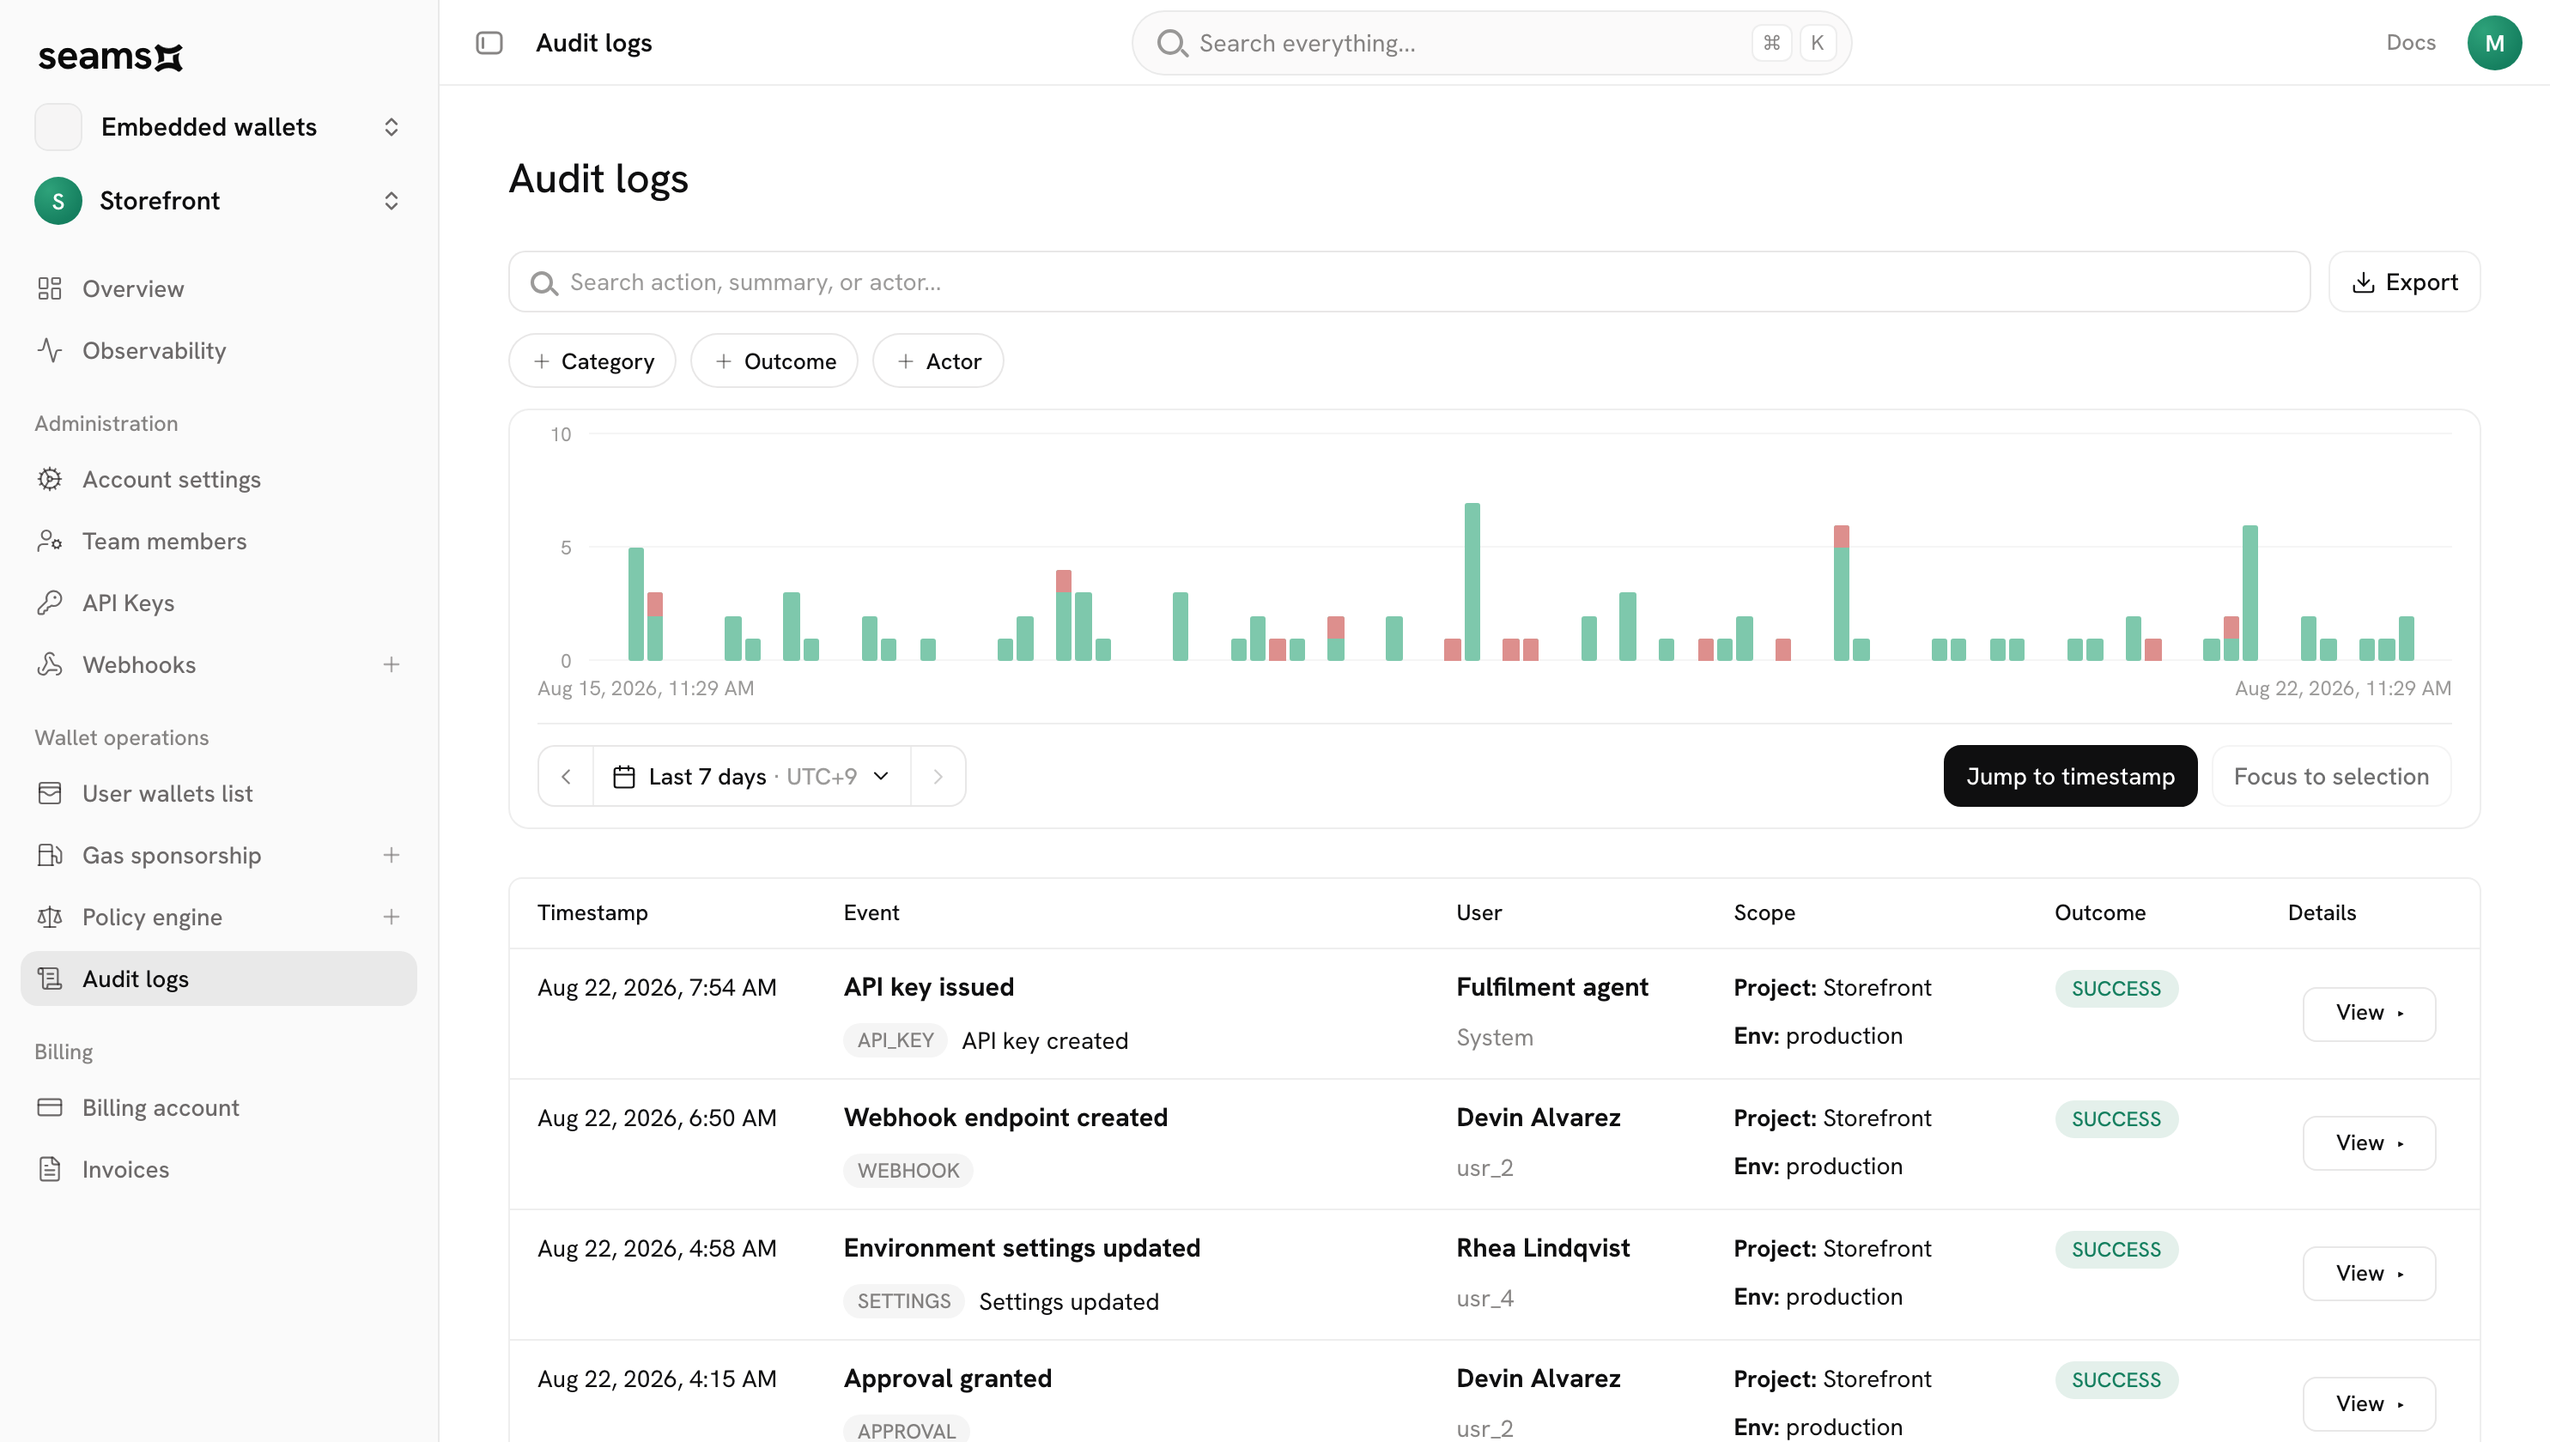
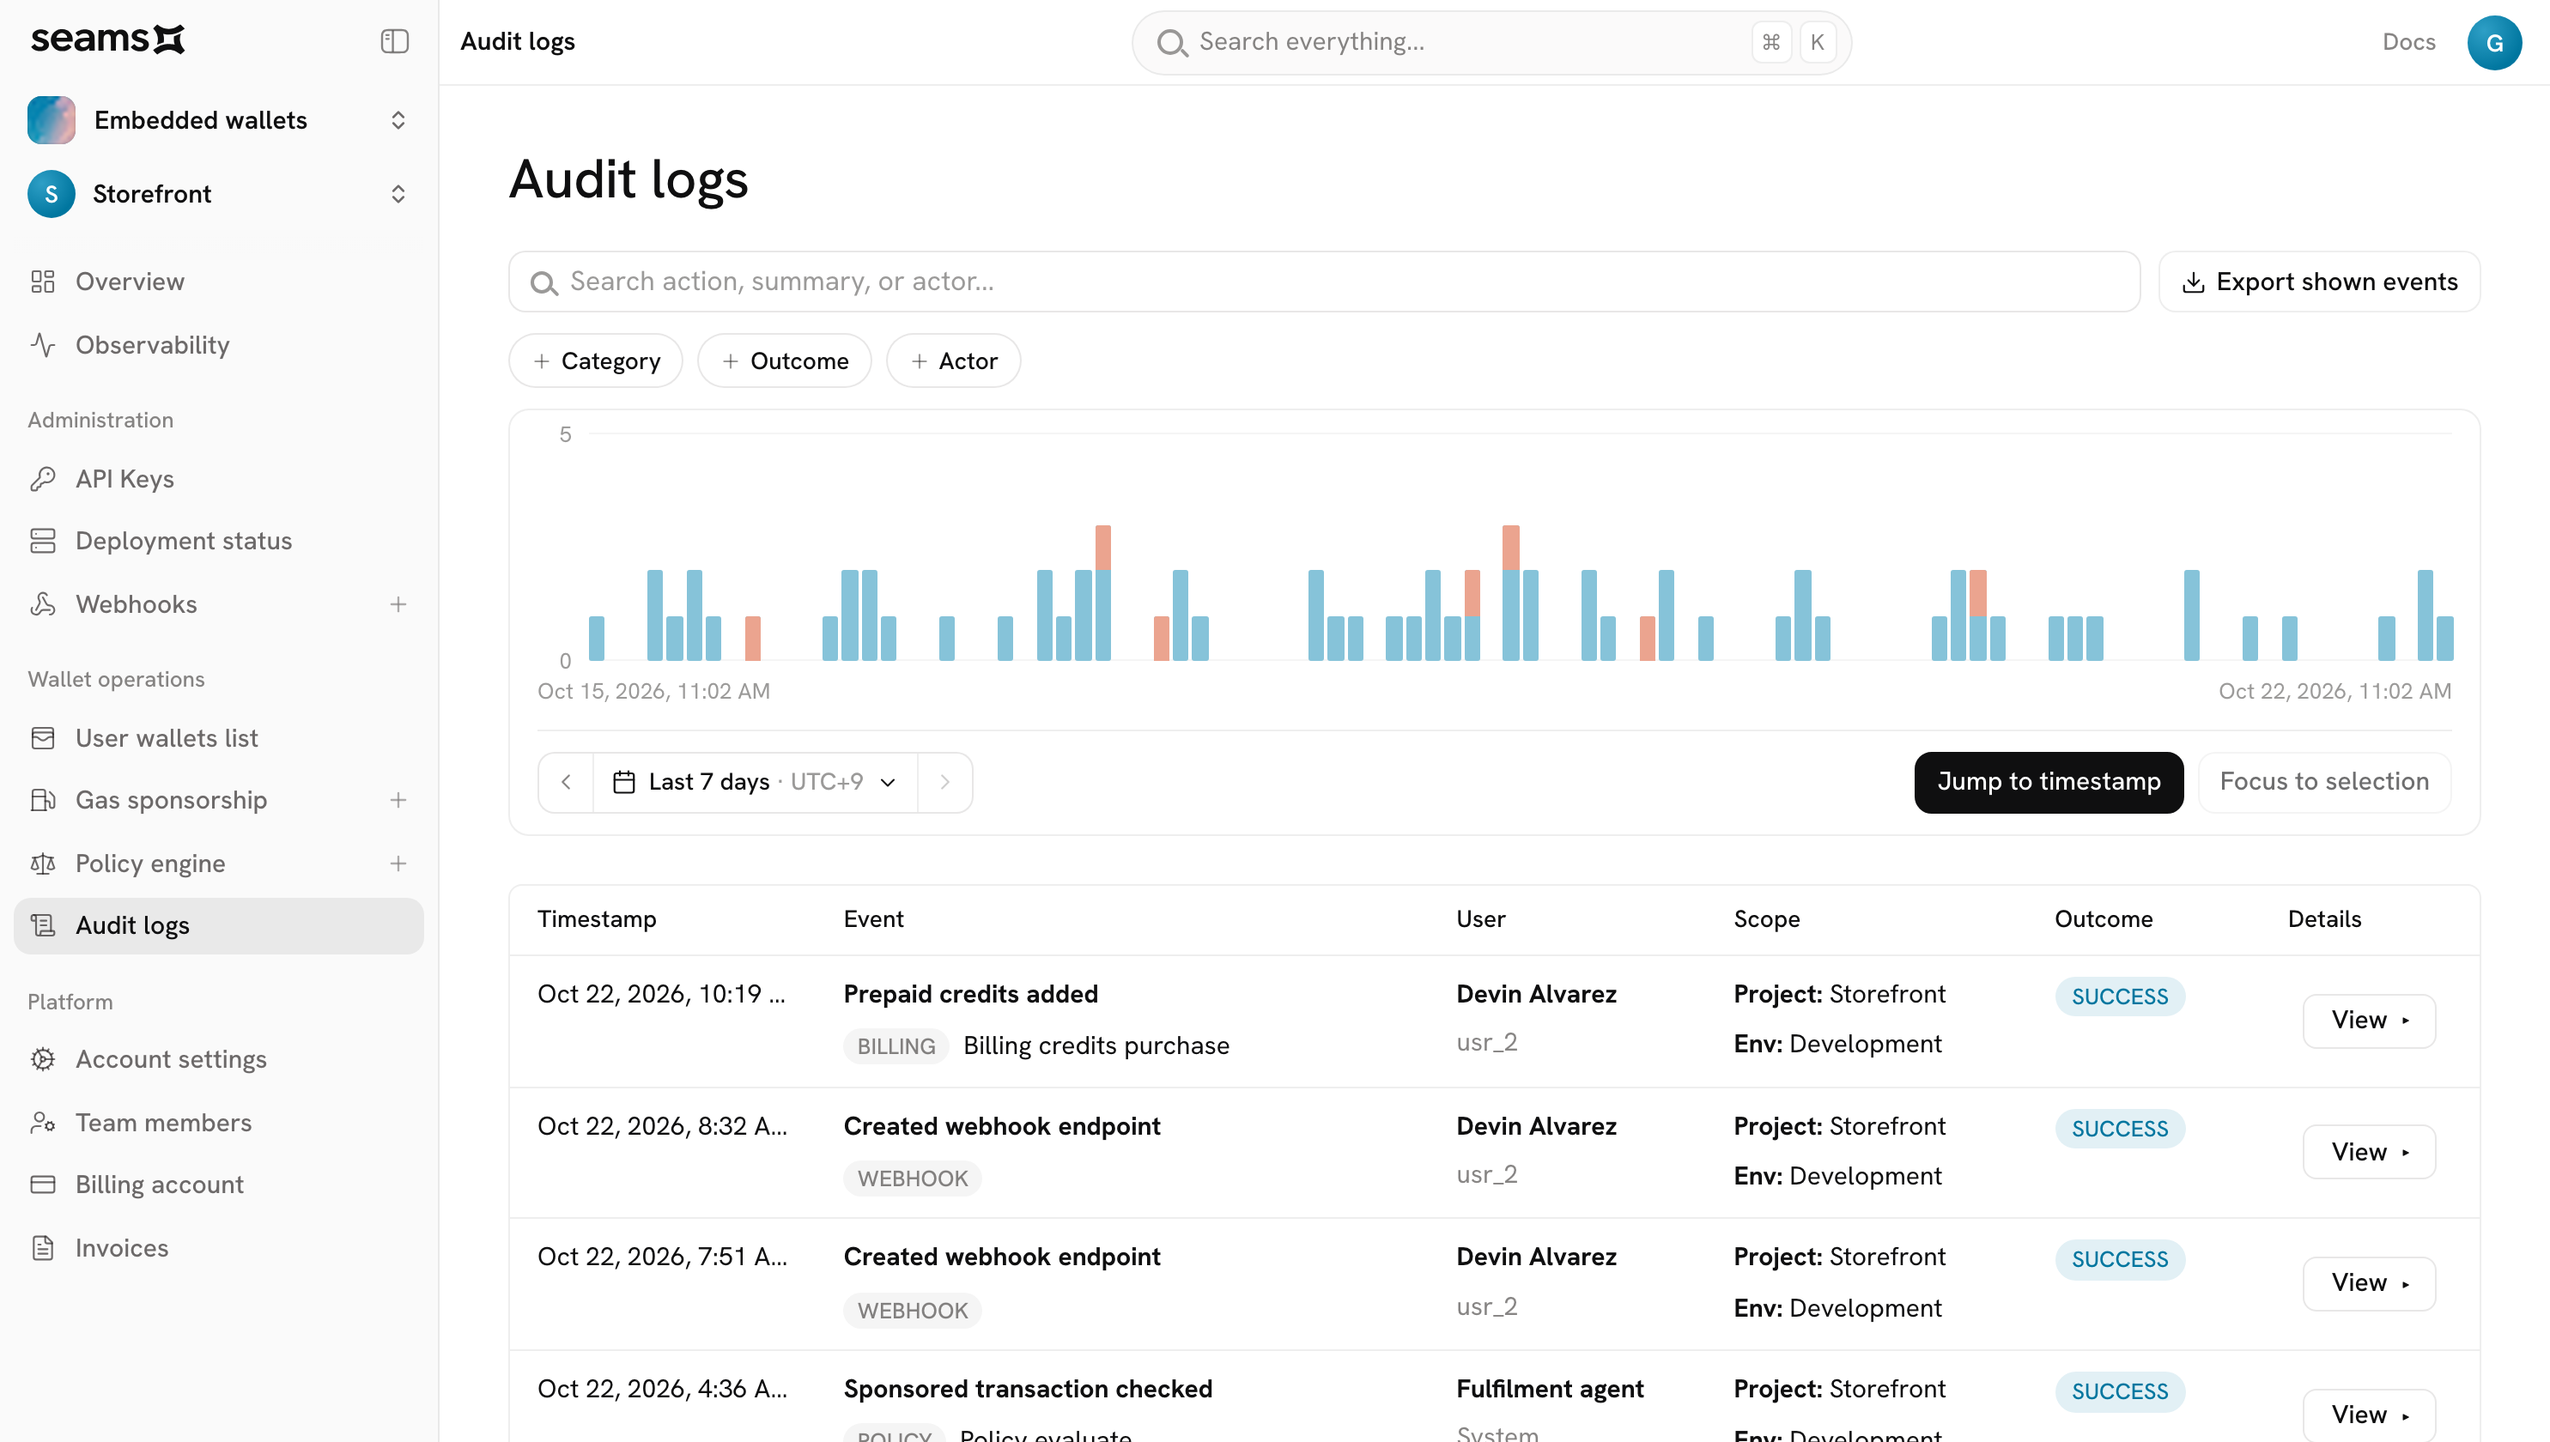
feat(console): teal-peach accents and new dashboard screenshots
Replace the Console's green accent with the teal-peach family from the
site theme: teal accent and success, peach failure bars, teal-peach
grain fields. Overview action icons become white glyphs on gradient
rounded-square tiles, and the credits banner shows more of its field.
Recapture the overview and audit screenshots for the wallet page.

diff --git a/apps/wallet-console/src/core/dashboard/styles.css b/apps/wallet-console/src/core/dashboard/styles.css
@@ -59,11 +59,14 @@
     0 0 0 1px rgba(0, 0, 0, 0.06), 0 1px 1px -0.5px rgba(0, 0, 0, 0.06),
     0 3px 3px -1.5px rgba(0, 0, 0, 0.06), 0 6px 6px -3px rgba(0, 0, 0, 0.06),
     0 12px 12px -6px rgba(0, 0, 0, 0.04), 0 24px 24px -12px rgba(0, 0, 0, 0.04);
-  /* Accent + status, mirrored from the frontpage chips. Green is a product
-     accent (never plain chrome); status softs match .h2-chip. */
-  --dashboard-accent: #157f5f;
-  --dashboard-success: #157f5f;
-  --dashboard-success-soft: #e4f0eb;
+  /* Accent + status, from the teal-peach field. Teal is the product accent
+     and the success hue (never plain chrome); peach is its partner wash. */
+  --dashboard-accent: #00769f;
+  --dashboard-accent-highlight: #2e9fc6;
+  --dashboard-success: #00769f;
+  --dashboard-success-soft: #e2f0f5;
+  --dashboard-peach: #b0614c;
+  --dashboard-peach-soft: #fbece6;
   --dashboard-warning: #b45309;
   --dashboard-warning-soft: #f7ecdd;
   --dashboard-danger: #b91c1c;
@@ -71,8 +74,8 @@
   /* Pastel pair for chart marks. The `-soft` tints above are page-fill pale
      and vanish as a bar; these sit between them and the full-strength hues,
      so a plot reads as quiet fill rather than as a row of status badges. */
-  --dashboard-accent-pastel: #7ec8ac;
-  --dashboard-danger-pastel: #dd8f8d;
+  --dashboard-accent-pastel: #86c3d9;
+  --dashboard-danger-pastel: #eba48f;
   --dashboard-sidebar-width: 256px;
   --dashboard-topbar-height: 50px;
   --dashboard-motion-sidebar: 150ms;
@@ -348,7 +351,7 @@ textarea {
   display: inline-grid;
   place-items: center;
   border-radius: 9999px;
-  background: radial-gradient(circle at 30% 28%, #2ea27a, var(--dashboard-accent) 72%);
+  background: radial-gradient(circle at 30% 28%, var(--dashboard-accent-highlight), var(--dashboard-accent) 72%);
   color: #ffffff;
   font-size: var(--dashboard-text-supporting);
   font-weight: 600;
@@ -1282,7 +1285,7 @@ textarea {
   display: inline-grid;
   place-items: center;
   border-radius: 9999px;
-  background: radial-gradient(circle at 30% 28%, #2ea27a, var(--dashboard-accent) 72%);
+  background: radial-gradient(circle at 30% 28%, var(--dashboard-accent-highlight), var(--dashboard-accent) 72%);
   color: #ffffff;
   font-size: var(--dashboard-text-supporting);
   font-weight: 600;
@@ -1498,7 +1501,7 @@ textarea {
   display: inline-grid;
   place-items: center;
   border-radius: 9999px;
-  background: radial-gradient(circle at 30% 28%, #2ea27a, var(--dashboard-accent) 72%);
+  background: radial-gradient(circle at 30% 28%, var(--dashboard-accent-highlight), var(--dashboard-accent) 72%);
   color: #ffffff;
   font-size: var(--dashboard-text-compact);
   font-weight: 600;
@@ -4424,34 +4427,33 @@ textarea {
 }
 
 .dashboard-hero__card-icon {
-  width: 34px;
-  height: 34px;
+  width: 36px;
+  height: 36px;
   display: inline-grid;
   place-items: center;
-  border-radius: 9999px;
-  border: 1px solid var(--dashboard-border);
-  background: var(--dashboard-surface-soft);
-  color: var(--dashboard-graphite);
+  border-radius: 10px;
+  /* top-edge sheen and a short drop, so the tile reads as a lit object */
+  box-shadow:
+    inset 0 1px 0 rgba(255, 255, 255, 0.28),
+    inset 0 0 0 1px rgba(0, 0, 0, 0.06),
+    0 1px 2px rgba(15, 15, 16, 0.12);
+  background: var(--dashboard-ink);
+  color: #ffffff;
   margin-bottom: 4px;
 }
 
-/* Soft per-action washes: color lives in content chips, never in chrome */
-.dashboard-hero__card-icon--green {
-  border-color: color-mix(in srgb, var(--dashboard-success) 22%, var(--dashboard-border));
-  background: var(--dashboard-success-soft);
-  color: var(--dashboard-success);
+/* One gradient per action, each from the teal-peach family. The darker end
+   sits under the glyph's lower half, so the white icon keeps 3:1. */
+.dashboard-hero__card-icon--teal {
+  background: linear-gradient(135deg, #36a9cc 0%, #00668c 100%);
 }
 
-.dashboard-hero__card-icon--amber {
-  border-color: color-mix(in srgb, var(--dashboard-warning) 22%, var(--dashboard-border));
-  background: var(--dashboard-warning-soft);
-  color: var(--dashboard-warning);
+.dashboard-hero__card-icon--peach {
+  background: linear-gradient(135deg, #ec9a7c 0%, #b9573e 100%);
 }
 
 .dashboard-hero__card-icon--blue {
-  border-color: color-mix(in srgb, #4a6fa5 24%, var(--dashboard-border));
-  background: #edf3fa;
-  color: #4a6fa5;
+  background: linear-gradient(135deg, #8d98e0 0%, #4b5bb0 100%);
 }
 
 /* Promo band: the one colorful surface per page, using the Seams v9 brand
@@ -4484,9 +4486,9 @@ textarea {
   border-radius: inherit;
   background: linear-gradient(
     90deg,
-    rgba(255, 255, 255, 0.94) 0%,
-    rgba(255, 255, 255, 0.82) 46%,
-    rgba(255, 255, 255, 0.2) 100%
+    rgba(255, 255, 255, 0.86) 0%,
+    rgba(255, 255, 255, 0.5) 42%,
+    rgba(255, 255, 255, 0) 78%
   );
   pointer-events: none;
 }
@@ -4519,7 +4521,8 @@ textarea {
 
 .dashboard-hero__promo-description {
   font-size: var(--dashboard-text-compact);
-  color: var(--dashboard-graphite);
+  /* darker than graphite: the teal-peach field shows through behind it */
+  color: color-mix(in srgb, var(--dashboard-ink) 74%, transparent);
 }
 
 .dashboard-hero__status-grid {
@@ -8515,11 +8518,10 @@ select.dashboard-input {
   .dashboard-hero__card-icon {
     grid-column: 1;
     grid-row: 1 / 3;
-    border: 0;
-    background: transparent;
-    color: inherit;
     margin: 0;
     width: 28px;
+    height: 28px;
+    border-radius: 8px;
   }
   .dashboard-hero__card-title {
     grid-column: 2;

diff --git a/apps/wallet-console/src/core/dashboard/routes/ops-cockpit/page.tsx b/apps/wallet-console/src/core/dashboard/routes/ops-cockpit/page.tsx
@@ -67,7 +67,7 @@ const CORE_OVERVIEW_HERO_ACTIONS: readonly OpsCockpitQuickAction[] = [
     description: 'Manage credentials for this environment.',
     path: '/dashboard/api-keys',
     icon: KeyRoundIcon,
-    tone: 'amber',
+    tone: 'peach',
   },
 ] as const;
 
@@ -76,7 +76,7 @@ export type OpsCockpitQuickAction = {
   description: string;
   path: string;
   icon: SidebarIconComponent;
-  tone: 'amber' | 'green' | 'blue';
+  tone: 'peach' | 'teal' | 'blue';
 };
 
 export type OpsCockpitApprovalActions = {
@@ -329,7 +329,7 @@ export function OpsCockpitPage({
             href={linkProps('/dashboard/billing/account').href}
             onClick={linkProps('/dashboard/billing/account').onClick}
           >
-            <GrainField field="aqua-evergreen" />
+            <GrainField field="teal-peach" />
             <span className="dashboard-hero__promo-copy">
               <span className="dashboard-hero__promo-title">Credits</span>
               <span className="dashboard-hero__promo-description">{creditsDescription}</span>

diff --git a/apps/wallet-console/src/app/dashboardConfig.tsx b/apps/wallet-console/src/app/dashboardConfig.tsx
@@ -72,7 +72,7 @@ export const DASHBOARD_PRODUCTS: DashboardProduct[] = [
     id: 'embedded-wallets',
     name: 'Embedded wallets',
     description: 'Passkey wallets, policies & gas',
-    gradient: 'aqua-evergreen',
+    gradient: 'teal-peach',
     available: true,
   },
 ];
@@ -222,7 +222,7 @@ const walletOpsCockpitQuickActions: readonly OpsCockpitQuickAction[] = [
     description: 'Set signing rules and spend caps for your wallets.',
     path: '/dashboard/policy-engine',
     icon: ScaleIcon,
-    tone: 'green',
+    tone: 'teal',
   },
   {
     title: 'Gas sponsorship',

diff --git a/apps/seams-site/src/components/h2/sections.tsx b/apps/seams-site/src/components/h2/sections.tsx
@@ -1261,13 +1261,13 @@ const CONSOLE_SCREENS = [
     id: 'overview' as const,
     label: 'Overview',
     blurb: 'Wallets, approvals, and team activity at a glance',
-    src: '/wallet-preview/wallet-console-dashboard.png',
+    src: '/wallet-preview/wallet-console-dashboard.png?v=2',
   },
   {
     id: 'audit' as const,
     label: 'Audit logs',
     blurb: 'Every action attributed, timestamped, and exportable',
-    src: '/wallet-preview/wallet-console-audit.png',
+    src: '/wallet-preview/wallet-console-audit.png?v=2',
   },
 ];
 

diff --git a/apps/wallet-console/src/components/h2/sections.tsx b/apps/wallet-console/src/components/h2/sections.tsx
@@ -482,12 +482,12 @@ const CONSOLE_SCREENS = [
   {
     id: 'overview' as const,
     label: t('overview'),
-    src: '/wallet-preview/wallet-console-dashboard.png?v=1',
+    src: '/wallet-preview/wallet-console-dashboard.png?v=2',
   },
   {
     id: 'audit' as const,
     label: t('observability'),
-    src: '/wallet-preview/wallet-console-audit.png?v=1',
+    src: '/wallet-preview/wallet-console-audit.png?v=2',
     callout: t('csvExport'),
   },
 ];

diff --git a/apps/wallet-console/src/core/dashboard/components/DashboardTable.tsx b/apps/wallet-console/src/core/dashboard/components/DashboardTable.tsx
@@ -415,7 +415,7 @@ export function DashboardTableState(props: DashboardTableStateProps): React.JSX.
   return (
     <p className={clsx('dashboard-data-table__state', className)}>
       <span className="dashboard-data-table__state-disc" aria-hidden="true">
-        <GrainField field="aqua-evergreen" playing={false} />
+        <GrainField field="teal-peach" playing={false} />
       </span>
       {children}
     </p>
